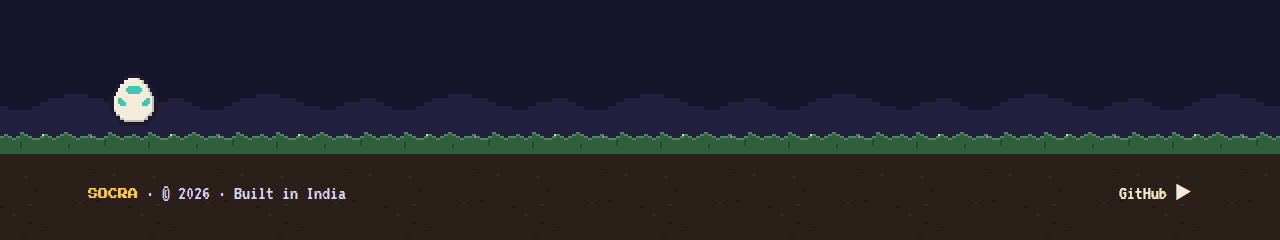
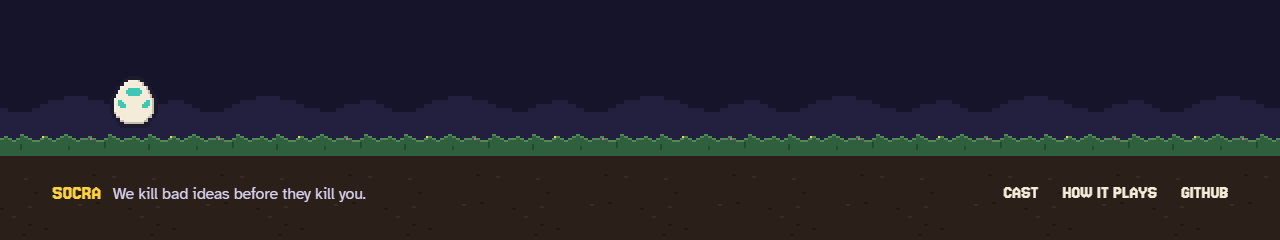
README: screenshots and text for the redesigned landing page
Re-shot every screenshot in the new fonts, added the demo section, and
updated the test count and image descriptions.

diff --git a/README.md b/README.md
@@ -12,7 +12,7 @@ An AI startup evaluator that refuses to hand you a plan until it understands you
 
 [![CI](https://github.com/CaringNihilistic/PROJECT-_Socra/actions/workflows/ci.yml/badge.svg)](https://github.com/CaringNihilistic/PROJECT-_Socra/actions/workflows/ci.yml)
 
-<img src="docs/screenshots/landing.png" alt="Socra's title screen: NAME YOUR IDEA, PRESS START" width="820" />
+<img src="docs/screenshots/landing.png" alt="Socra's landing page: the headline, the idea box with START INTERROGATION, and Prof. Socra beside it" width="820" />
 
 </div>
 
@@ -23,6 +23,8 @@ An AI startup evaluator that refuses to hand you a plan until it understands you
 ChatGPT tells you how to build it. Socra tells you if you should. Most AI tools are built to agree with you; Socra is built to find the assumption that kills your idea in year one, with named competitors, real prices and actual regulations, before you quit your job for it.
 
 ## How it works
+
+<img src="docs/screenshots/demo.png" alt="The landing page's demo: a recorded run stepping through ASK, EVOLVE, COUNCIL and PLAN, here with the council reporting" width="820" />
 
 | 1. Interrogation | 2. The council | 3. The masterplan |
 |---|---|---|
@@ -35,7 +37,7 @@ ChatGPT tells you how to build it. Socra tells you if you should. Most AI tools 
 </tr>
 <tr>
 <td width="50%"><img src="docs/screenshots/masterplan.png" alt="Results: the trainer-presented masterplan with the verdict in bold" /></td>
-<td width="50%" align="center"><img src="docs/screenshots/card.png" alt="The shareable trading card: HP 87, GREENLIT" /></td>
+<td width="50%" align="center"><img src="docs/screenshots/card.png" alt="The shareable trading card: HP 100, GREENLIT" /></td>
 </tr>
 </table>
 
@@ -67,7 +69,7 @@ All original characters, drawn in code as 32×32 pixel sprites.
 - **Crisp by contract.** Prompts fix the output shape: replies under 60 words, reports of exactly four bullets that each lead with a bold verdict, and a masterplan filled into a 7-heading template, prefilled on Anthropic. Tests pin the headings the frontend splits the plan on. A full session costs about **$0.05**.
 - **One episode engine for live, replay and demo.** A pure reducer plus a pacer turns the SSE events into the council "episode". The live run, the saved-session replay and the landing page's demo (a real recorded run) all go through it, and a replayed episode matches the live one.
 - **Pixel art without image files.** Sprites are 16-row half-grids, mirrored, upscaled with Scale2x/EPX and rim-shaded, then rendered as crisp SVG paths at whole-pixel sizes only. The share card exports to PNG in the browser with the pixel fonts inlined.
-- **Accessible by default.** WCAG AA colour pairs, keyboard-only play (menus, dialogs with focus traps, Esc to skip), `prefers-reduced-motion` support, and no horizontal scroll at 375px.
+- **Accessible by default.** WCAG AA colour pairs, keyboard-only play (menus, dialogs with focus traps, Esc to skip), a visible focus ring on every control, `prefers-reduced-motion` support, and no horizontal scroll at 375px. Text is set in Atkinson Hyperlegible; the pixel face is kept for titles.
 
 ## Tech stack
 
@@ -78,7 +80,7 @@ All original characters, drawn in code as 32×32 pixel sprites.
 | **AI** | Anthropic Claude Haiku 4.5, Google Gemini, Groq; LangGraph; Tavily web search; Langfuse tracing |
 | **Services** | Clerk (optional auth), Razorpay (optional donations), Resend (follow-up email) |
 | **Hosting** | Render (Docker backend + static frontend, [render.yaml](render.yaml)) and Neon Postgres, all on free tiers |
-| **Quality** | 170 Vitest tests and a pytest suite, run with the production build on every push (GitHub Actions) |
+| **Quality** | 181 Vitest tests and a pytest suite, run with the production build on every push (GitHub Actions) |
 
 ## Run it locally
 
@@ -151,4 +153,4 @@ Architecture notes for contributors are in [CLAUDE.md](CLAUDE.md).
 
 [MIT](LICENSE)
 
-<img src="docs/screenshots/ground.png" alt="The bottom of the landing page: pixel hills, grass, and the Idea Egg" width="100%" />
+<img src="docs/screenshots/ground.png" alt="The bottom of the landing page: the footer on pixel hills and grass, with the Idea Egg" width="100%" />
